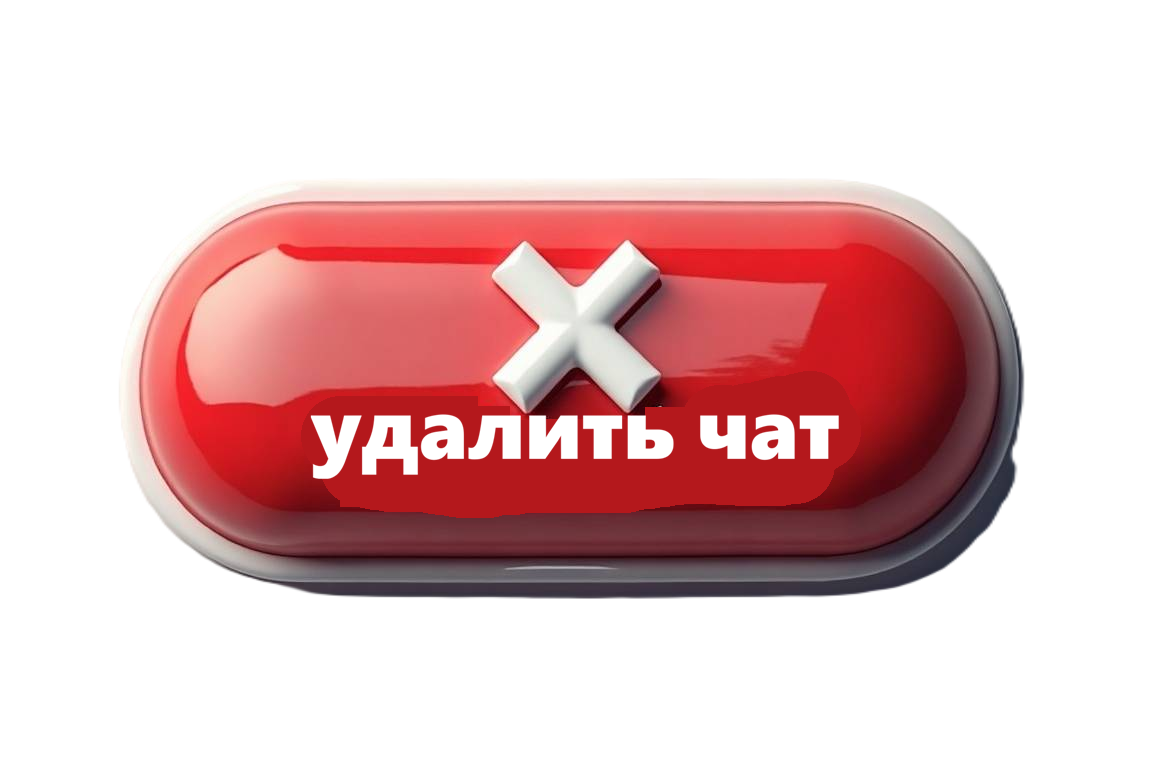
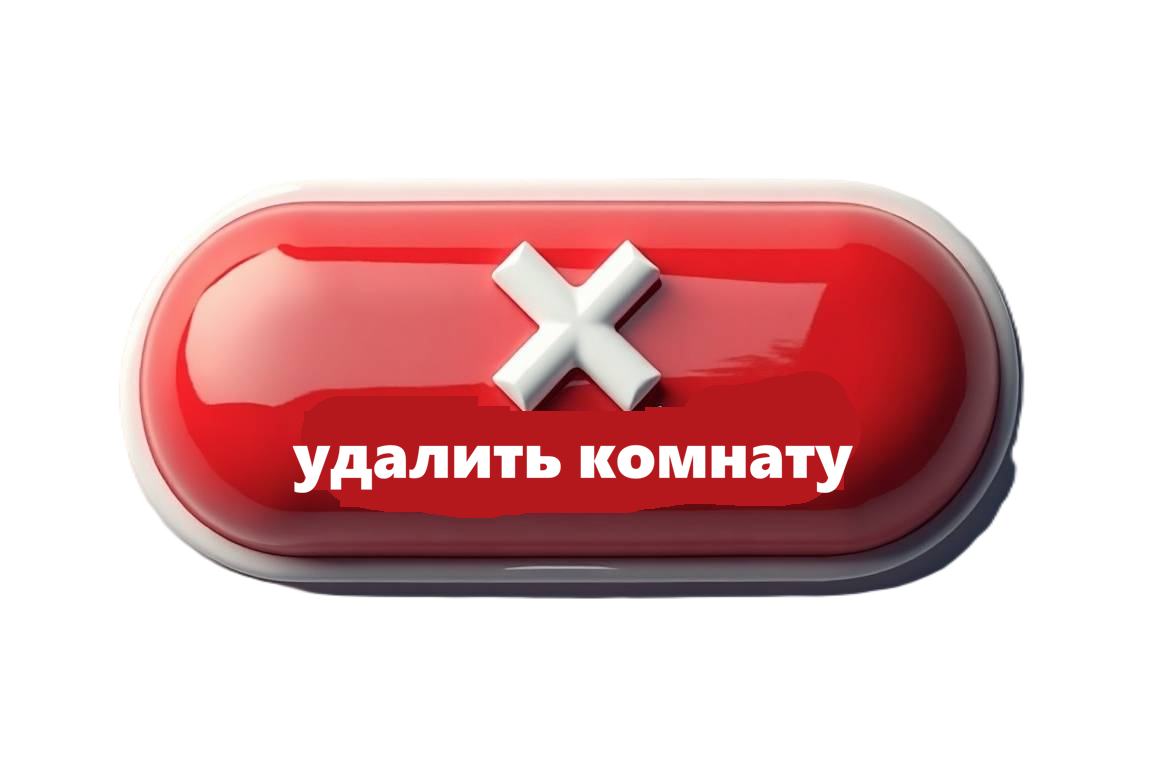
добавлен стиль

Changed region(s): [[0.25, 0.5312, 0.75, 0.6562]]

diff --git a/static/style.css b/static/style.css
@@ -62,11 +62,19 @@ button.btn-info-user svg { stroke: var(--brand-green) !important; width: 22px; h
 }
 
 /* 3. Фикс кнопки прикрепления (чтобы она не лезла в кнопки удаления) */
+/* Принудительная очистка фона для кнопки прикрепления */
 #btn-attach-file {
     background: transparent !important;
+    background-color: transparent !important;
     border: none !important;
-    padding: 0 !important;
-    margin-right: 10px;
+    box-shadow: none !important;
+    outline: none !important;
+    filter: none !important;
+}
+/* На случай, если кнопка имеет класс btn или btn-primary */
+.btn-primary#btn-attach-file {
+    background: transparent !important;
+    background-color: transparent !important;
 }
 /* Настройка кнопок-картинок */
 #btn-archive-room, #btn-delete-room {

diff --git a/index.html b/index.html
@@ -301,7 +301,9 @@
 
             <div class="controls-row">
                 <input type="file" id="global-file-input" style="display:none">
-                <button class="btn btn-primary" id="btn-attach-file" style="background:#28a745 !important; padding: 4px; display: flex; align-items: center; justify-content: center;" title="Прикрепить файл">
+                <button class="btn" id="btn-attach-file" 
+                        style="background: transparent !important; padding: 4px; display: flex; align-items: center; justify-content: center; border: none; cursor: pointer;" 
+                        title="Прикрепить файл">
                     <img src="/static/attach-icon.png" alt="Прикрепить" style="width: 24px; height: 24px; object-fit: contain;">
                 </button>
                 <div class="input-msg-div" 
